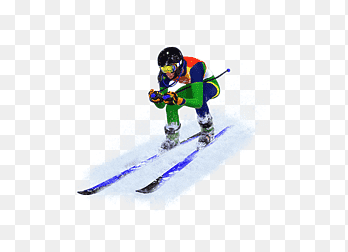
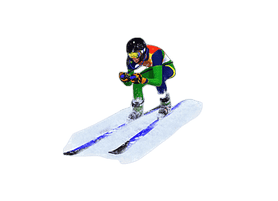
Game 1.1 / Change of idea

diff --git a/index.js b/index.js
@@ -7,16 +7,49 @@ window.onload = () => {
   
   //Creat / name our variables
   const canvas = document.getElementById('canvas')
-  canvas.width = 1000
-  canvas.height = 600
+  canvas.width = 1200 //1000
+  canvas.height = 600//600
   const canvasContext = canvas.getContext("2d")
   const imageBackGround = new Image()
-  imageBackGround.src ='images/backGround.jpeg'
+  imageBackGround.src ='images/moon.png' //TESTING CHANGED TO MOON IMG INSTEAD OF ORIGINAL
   const imageSkiPlayer = new Image()
-  imageSkiPlayer.src = 'images/ski1.png'
+  imageSkiPlayer.src = 'images/Character1.png'
   const imageSkiPlayer2 = new Image()
-  imageSkiPlayer2.src = 'images/ski2.jpeg'
-  
+  imageSkiPlayer2.src = 'images/Character2.png'
+
+  //Testing for back-ground image infinite loop
+  const imgTest = new Image()
+  imgTest.src = 'images/panoramic.jpeg'
+
+  class InfiniteLoop{
+    constructor(){
+
+        this.imgTest = imgTest,
+        this.x = 0,
+        //this.y = canvas.heighth/2,
+        this.speed = -1
+    }
+    move(){
+        this.x += this.speed;
+        this.x %= canvas.width;
+    }
+    draw(){
+        canvasContext.drawImage(this.imgTest, this.x, 0);
+        if (this.speed < 0) {
+          canvasContext.drawImage(this.imgTest, this.x + canvas.width, 0);
+        } else {
+          canvasContext.drawImage(this.imgTest, this.x - this.imgTest.width, 0);
+        }
+      }
+      updateCanvas(){
+        backgroundImage.move();
+        backgroundImage.draw();
+      }
+    }
+
+    let backgroundImage = new InfiniteLoop
+
+  //Testing for back-ground image infinite loop
 
   //Here we create our calsses and their methods
 
@@ -52,16 +85,22 @@ window.onload = () => {
         this.y = this.y - this.speed
     }
     moveDown(){
-        if(this.y > canvas.height){
+        if(this.y >= canvas.height-90){
             return
         }
         this.y = this.y + this.speed
     }
     jumpUpBrah(){
+        if(this.y <= 0){
+            return
+        }
         this.y = this.y  - this.jump
         //Need to somwhow make him comwdown
     }
     jumpDownBrah(){
+        if(this.y >= canvas.height - 90){
+            return
+        }
         this.y = this.y + this.jump
     }
   }
@@ -73,33 +112,30 @@ window.onload = () => {
 
     //Random objects Class MONSTERS 
     //NEED TO SET LIMITS LIKE THE BALL THAT MOVES ARUFN PING PONG BUT THIS ARE MPNSTERS AND WHEN THEY REACH THE END THE DESPEAR KEEP MOVING
-class ObstaclesMonster{
+class ObstaclesMonster{//use random at certain things here so that they behave diifferently
     constructor(){
         this.x = 0,
-        this.y =580,//WHY WHEN 590 OR MORE THE MONSTER STOPS MOVING ALONG Y AXIS?
+        this.yM =580,//WHY WHEN 590 OR MORE THE MONSTER STOPS MOVING ALONG Y AXIS?
         this.w = 10,
         this.h = 10,
-        this.speedY = 1,
-        this.speedX = 1
+        this.speedY = Math.random()*3,
+        this.speedX = Math.random()*3
     }
       drawMonster(){
-        this.y = this.y + this.speedY
-        this.x = this.x + this.speedX
-        canvasContext.fillStyle = 'red'
-        canvasContext.fillRect(this.x,this.y,this.w,this.h)
+        this.yM = this.yM + this.speedY //+ Math.random(),
+        this.x = this.x + this.speedX //+ Math.random(),
+        canvasContext.fillStyle = 'red',
+        canvasContext.fillRect(this.x,this.yM,this.w,this.h)
 //CODE FORM BALL ABOVE MODIFY
 //This makes MONSTER move up and down but also to the right 
 //It sets the limits of when to move up or down changing the objects speed
-        if (this.y >= canvas.height - 15){//DONT KNOW WHY I CANT MAKE THE BOUNDRY LESS THAN THE CANVAS HEIGHT
+        if (this.yM >= canvas.height - 15){//DONT KNOW WHY I CANT MAKE THE BOUNDRY LESS THAN THE CANVAS HEIGHT
             this.speedY = -this.speedY
         }
-        else if(this.y <= canvas.height/2){
+        else if(this.yM <= canvas.height/2){
             this.speedY = -this.speedY
         }
-
-        
-}
-}
+    }}
 
 let monsterArray = []
 
@@ -113,7 +149,33 @@ let monster = new ObstaclesMonster()
 
   function updateDrawing(){
     canvasContext.clearRect(0,0,canvas.width,canvas.height)//So the image doestn lag?
-    canvasContext.drawImage(imageBackGround, 0, 0, canvas.width, canvas.height)
+    //canvasContext.drawImage(imageBackGround, 0, 0, canvas.width, canvas.height) 
+
+    //Test infinite loop
+
+
+
+
+
+
+
+
+    backgroundImage.updateCanvas()
+
+
+
+
+    canvasContext.drawImage(imageBackGround, 500,200, canvas.width, canvas.height) 
+ 
+
+
+
+
+
+
+
+
+    //Test infinite loop
     
     characterMian.drawPlayer(imageSkiPlayer)//Calling charcater objecst method to draw image of character
 
@@ -132,7 +194,7 @@ let monster = new ObstaclesMonster()
   setInterval(function(){
     let monster = new ObstaclesMonster()
     monsterArray.push(monster)
-  }, 1000)
+  }, 3000)
 
   //EventListeners to make game live / reactive to the player's input
 

diff --git a/idex.html b/idex.html
@@ -4,8 +4,10 @@
     <meta charset="UTF-8" />
     <meta name="viewport" content="width=device-width, initial-scale=1.0" />
     <meta http-equiv="X-UA-Compatible" content="ie=edge" />
-    <link rel="stylesheet" href="styles/style.css" />
+   <!--<link rel="stylesheet" href="styles/style.css" /> -->
     <title>Shredding Braw</title>
+
+    <link rel ="stylesheet" href="CSS.css">
   </head>
   <body>
     <div class="game-intro">
@@ -19,5 +21,6 @@
     </div>
 
     <script src="index.js"></script>
-  </body>
+  </body>s
 </html>
+

diff --git a/CSS.css b/CSS.css
@@ -1,0 +1,3 @@
+canvas {/*This will give us a boarder  for the canvas block of code  / graphic interface. Note calling the entire canvas element tag*/
+    border:1px solid black;
+}
